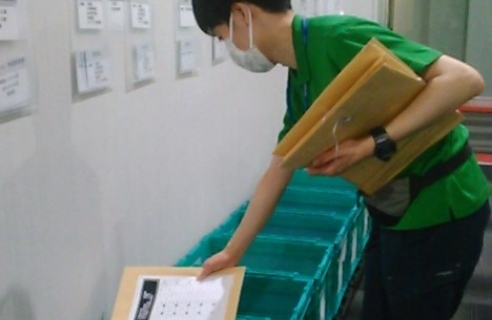
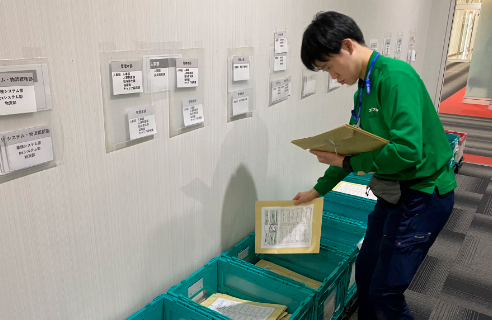
CORPORATESITE-73_スギスマイル画像とテキスト差し替え

diff --git a/sugi-smile/works/index.html b/sugi-smile/works/index.html
@@ -384,9 +384,9 @@
 								</li>
 								<li>
 									<div class="cleaning-img">
-										<img src="/img/sugi-smile/img_toilet_cleaning.jpg" alt="トイレ">
+										<img src="/img/sugi-smile/img_meetingroom_cleaning.jpg" alt="会議室">
 									</div>
-									<p class="img-txt">トイレ</p>
+									<p class="img-txt">会議室</p>
 								</li>
 							</ul>
 							<div class="senior-voice js-accor">
